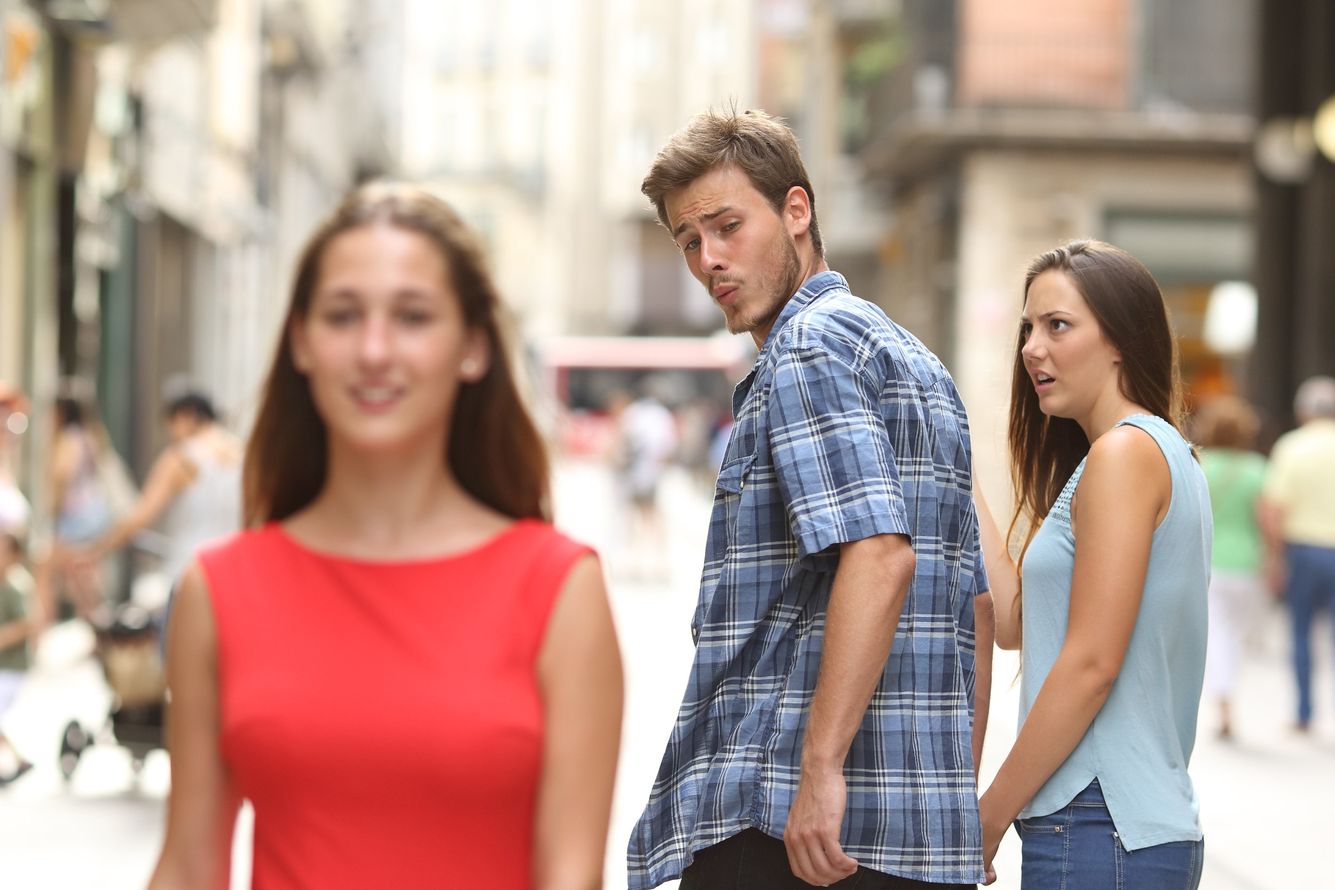
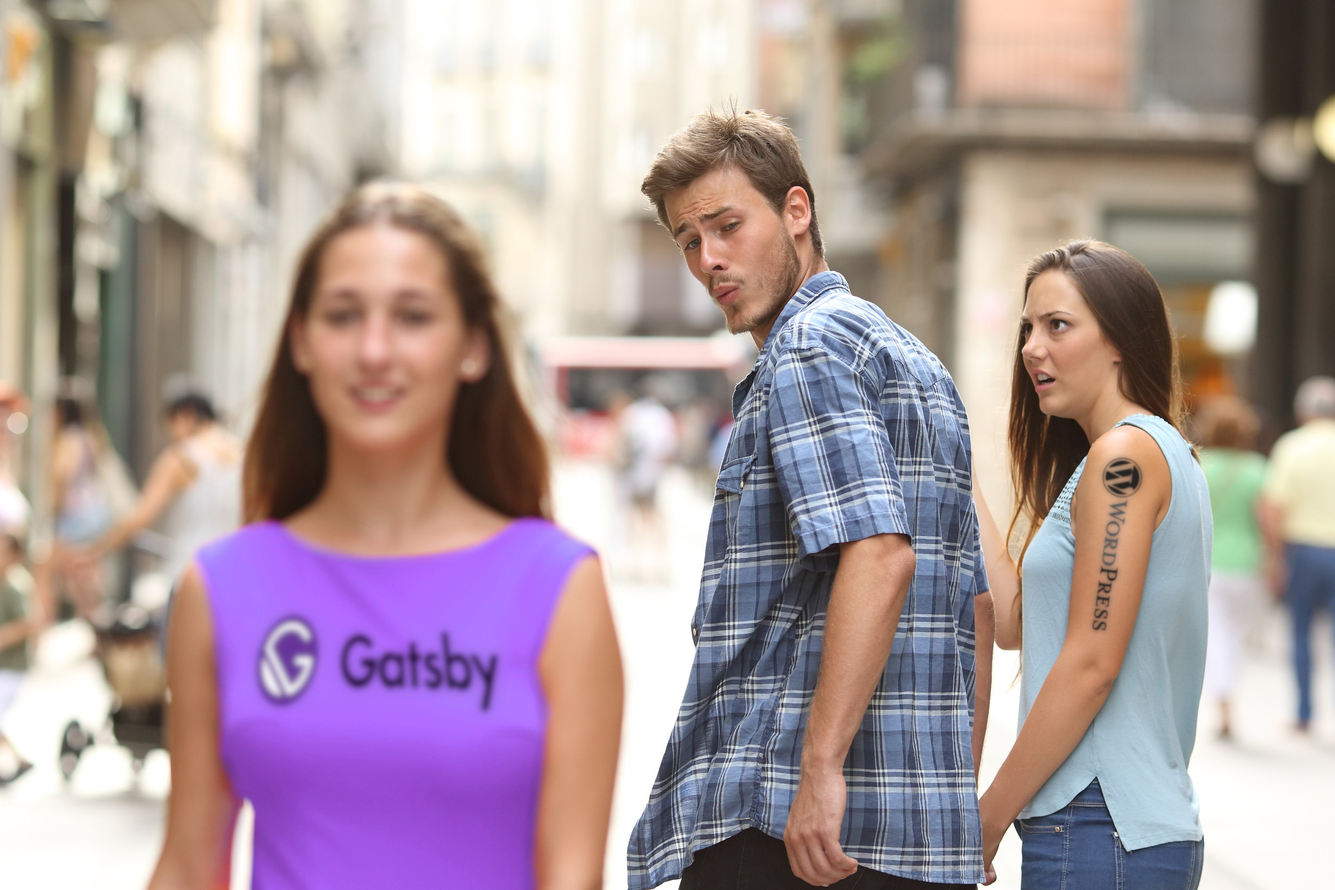
Modify featured image for gatsby migration post

Changed region(s): [[0.1248, 0.5615, 0.468, 1.0], [0.8112, 0.4991, 0.8736, 0.7175]]

diff --git a/content/blog/i-migrated-my-blog-from-wordpress-to-gatsby/index.md b/content/blog/i-migrated-my-blog-from-wordpress-to-gatsby/index.md
@@ -1,6 +1,6 @@
 ---
 title: 'I Migrated My Blog From Wordpress to Gatsby'
-date: "2021-05-09T16:12:37.121Z"
+date: "2021-04-25T16:12:37.121Z"
 featuredImage: "./featured.jpg"
 ---
 
